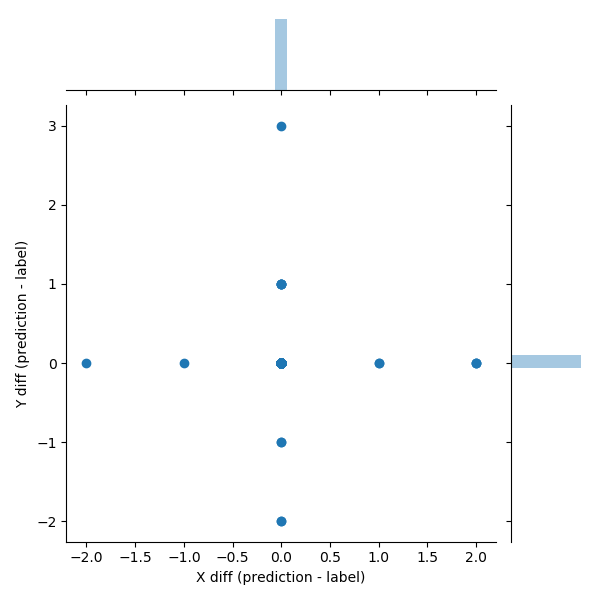
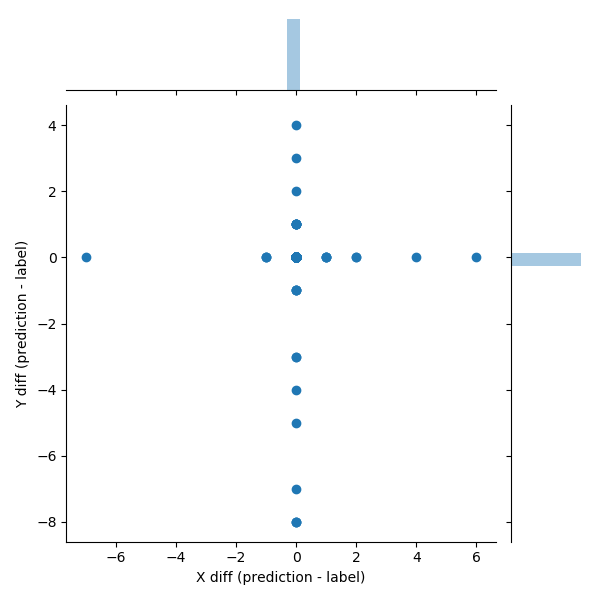
generates visualizations of incorrectly predicted photos

diff --git a/2frame_tracking_classifier.py b/2frame_tracking_classifier.py
@@ -23,6 +23,7 @@ import seaborn as sb
 import os
 import cv2
 import sys
+import random
 
 
 # train or not
@@ -37,9 +38,13 @@ if on_server:
 else:
     resultsdir = './flickr30k/results'
 
+# directory to store error images
+errdir = './errors_classifier/'
+
 # csv path
 csvpath = os.path.join(resultsdir, 'results.csv')
 
+# network to save (if training) or load (if not training)
 netpath = './2frame_net.pth'
 
 # which gpu
@@ -88,7 +93,7 @@ class TwoFrameTrackingDataset(torch.utils.data.Dataset):
 n_epochs = 50
 batch_size_train = 64
 batch_size_validation = 256
-batch_size_test = 250
+batch_size_test = 1
 learning_rate = 0.001
 momentum = 0.9
 log_interval = 9999999 # print every log_interval mini batches
@@ -273,8 +278,14 @@ else:
 # test the trained network on test set (new data)
 print('Testing network on test set')
 correct = 0
+errcount = 0
 total = n_test * 2
 heatmap = []
+
+# empty error directory to fill with new errors
+for filename in os.listdir(errdir):
+    os.remove(os.path.join(errdir, filename))
+
 with torch.no_grad():
     for batch in testloader:
         images, labels = batch
@@ -289,9 +300,42 @@ with torch.no_grad():
         y_diff = preds[:,1] - labels[:,1]
         for i in range(batch_size_test):
             heatmap.append([x_diff[i].item(), y_diff[i].item()])
+            
+            if x_diff[i].item() != 0 or y_diff[i].item() != 0:
+                # if vector v predicted incorrectly
+                # get actual and predicted vx,vy
+                pred = preds[i] - 10
+                label = labels[i] - 10
+                vxp = pred[0].item()
+                vyp = pred[1].item()
+                vx = label[0].item()
+                vy = label[1].item()
+                # save an image with bounding boxes
+                # actual in green, predicted in blue
+                img = images[0].numpy()
+                img_trans = img[3:,:,:]
+                img_trans = np.transpose(img_trans, (1, 2, 0))
+                img_trans = cv2.resize(img_trans, (256, 256))
+                img_rect = cv2.rectangle(
+                    img=img_trans,
+                    pt1=(64+vx, 64+vy),
+                    pt2=(64+128+vx, 64+128+vy),
+                    color=(0, 255, 0),
+                    thickness=1)
+                img_rect = cv2.rectangle(
+                    img=img_rect,
+                    pt1=(64+vxp, 64+vyp),
+                    pt2=(64+128+vxp, 64+128+vyp),
+                    color=(255, 0, 0),
+                    thickness=1)
+                imgname = 'err_' + str(errcount) + '.jpg'
+                cv2.imwrite(os.path.join(errdir, imgname), img_rect)
+                errcount += 1
 
 print('# correct:  ' + str(correct) + '/' + str(total) + ' = '
       + str(100.0*correct/total) + '%')
+print(str(errcount) + ' errors saved to ' + errdir)
+print('predicted box in blue, correct in green')
 
 # show heat map on testing data
 heatmap = np.array(heatmap)
